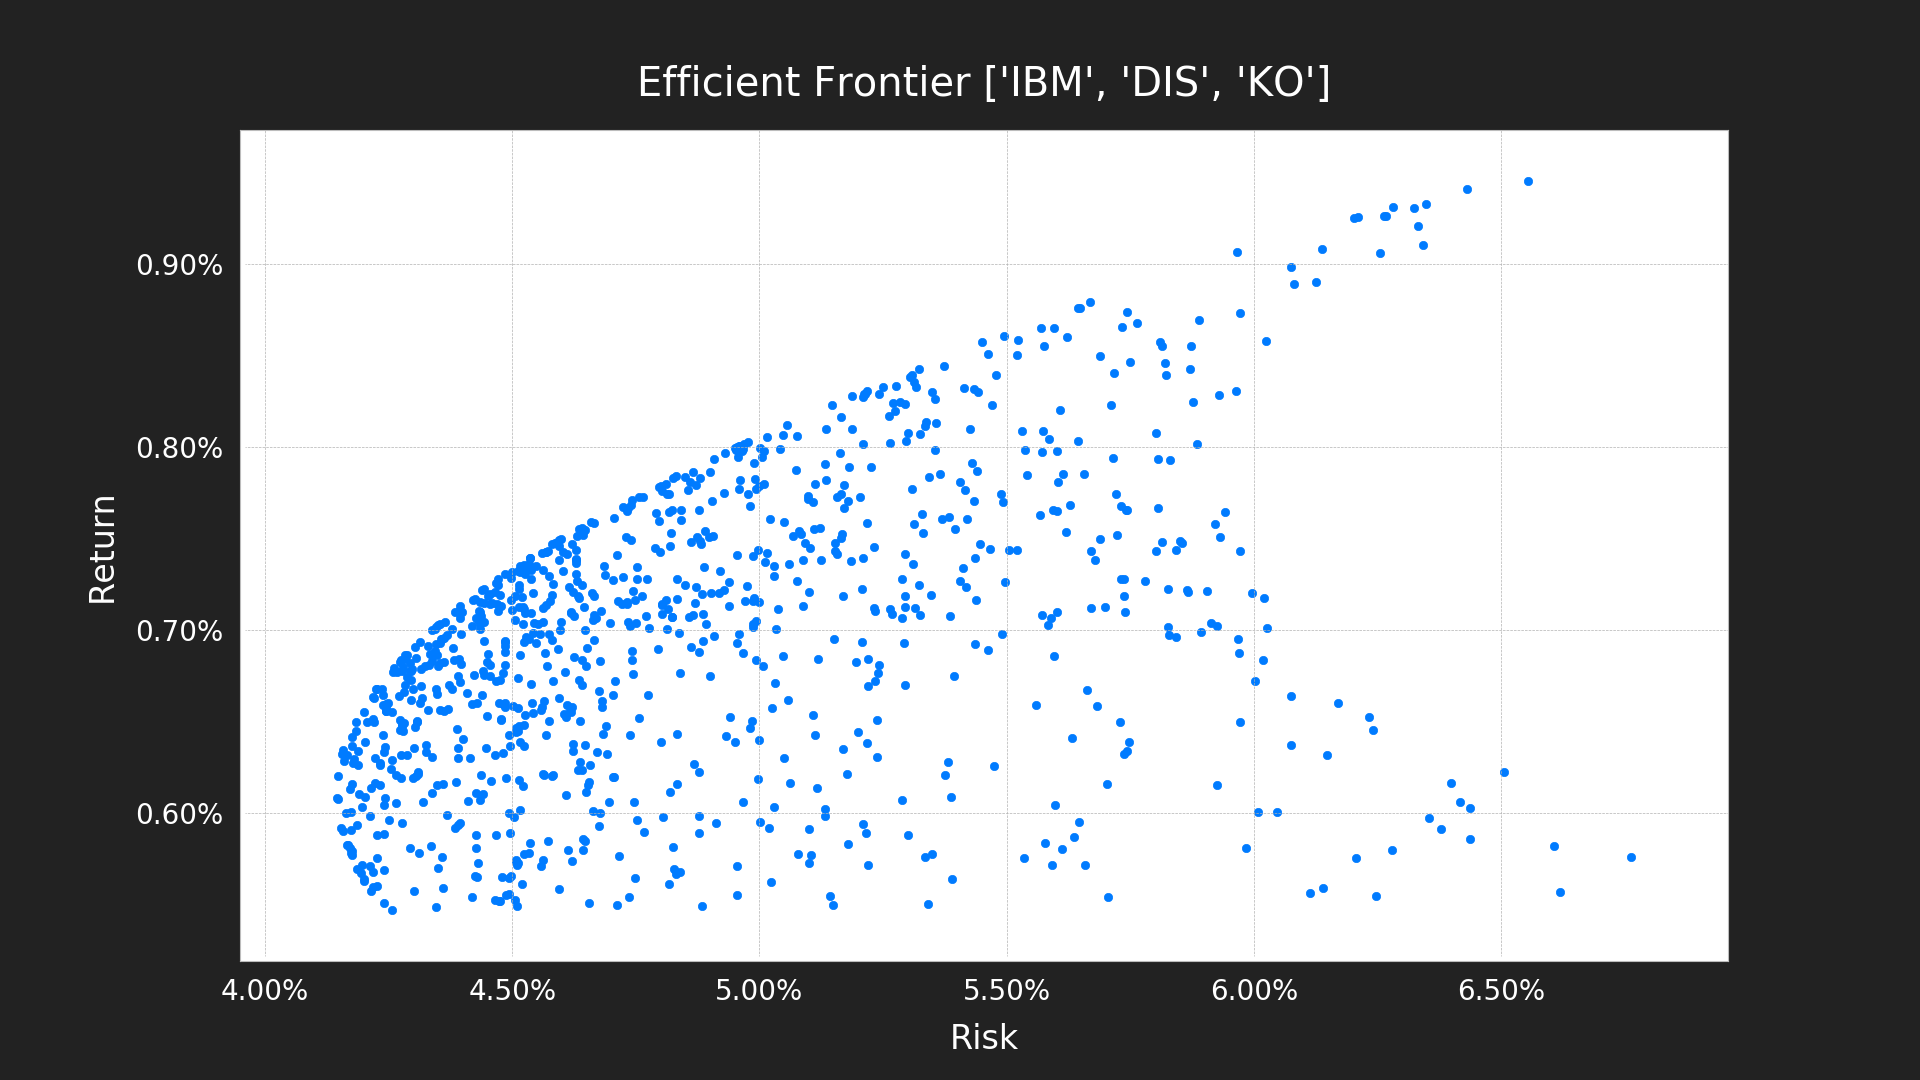
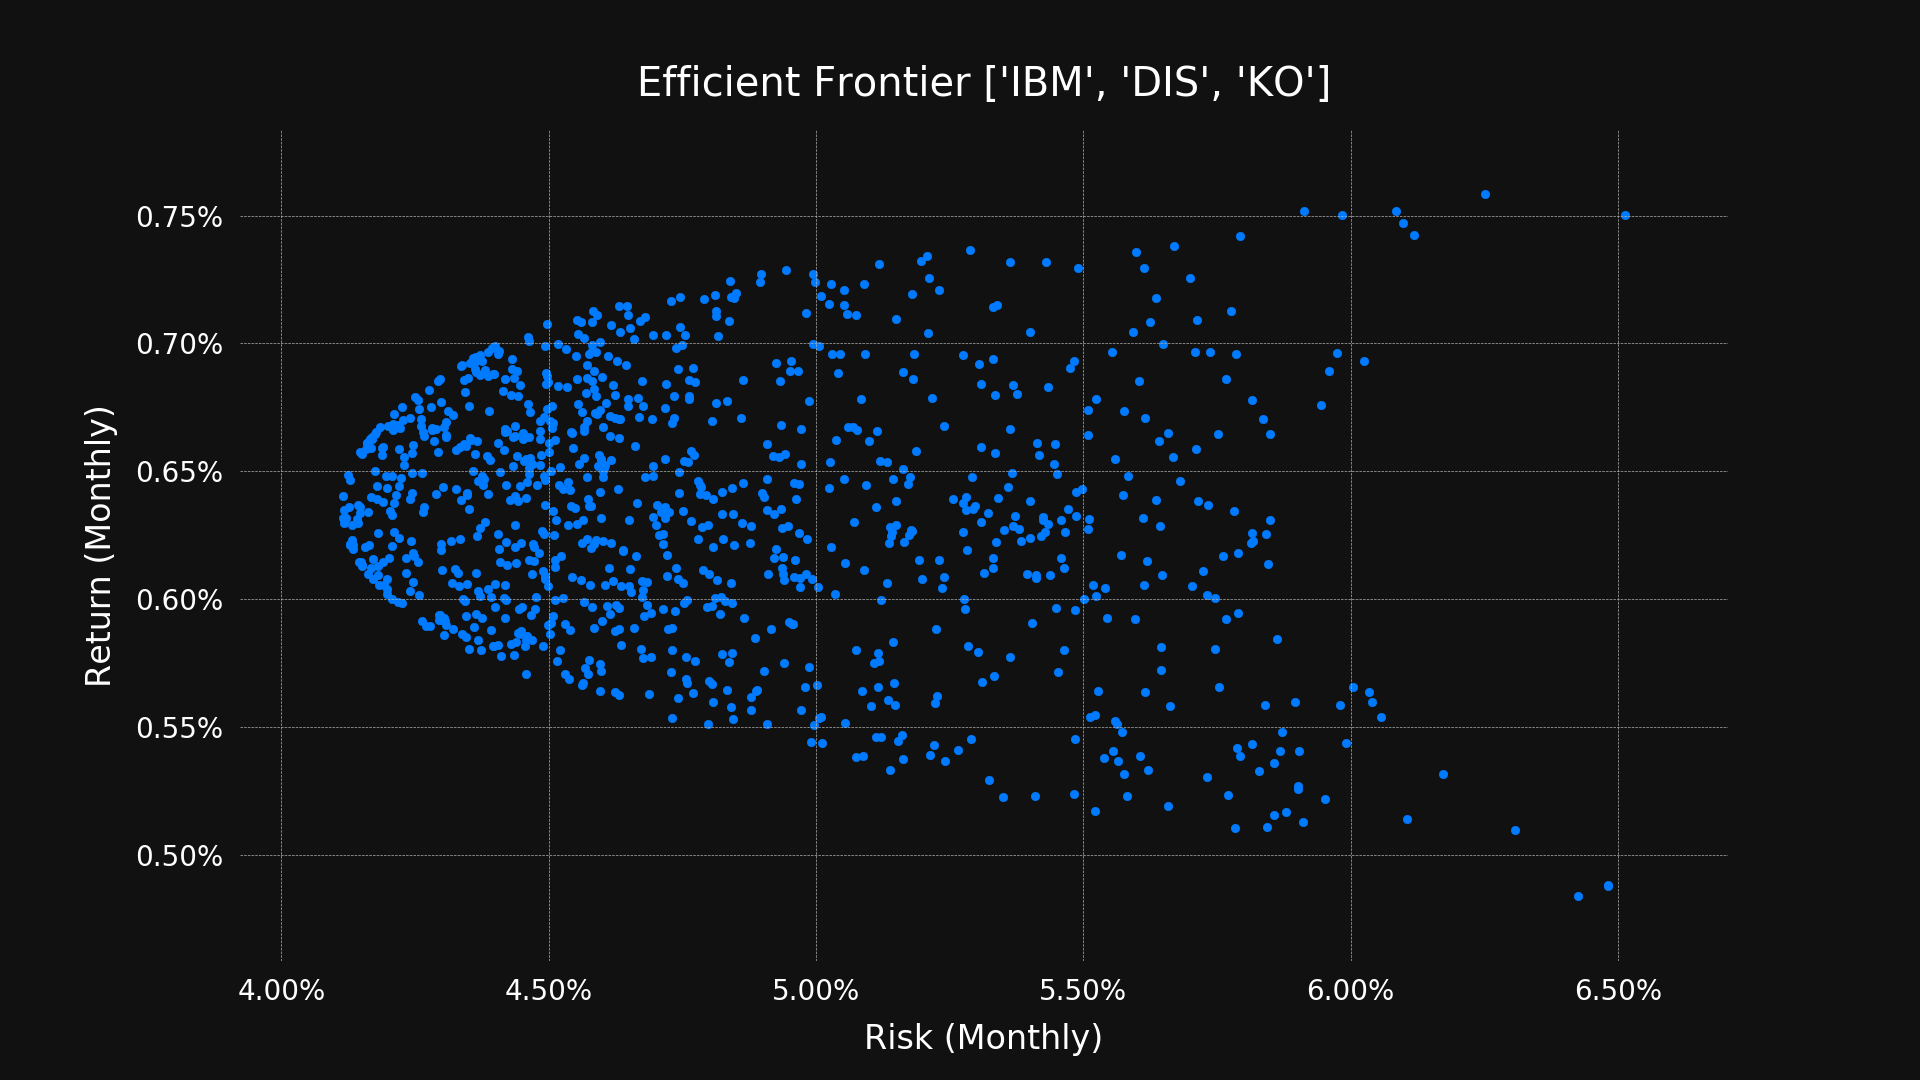
Refactor efficient frontier scripts

diff --git a/frontier.py b/frontier.py
@@ -4,10 +4,11 @@ import pathlib
 import numpy as np
 
 import alpha_vantage
+from alpha_vantage import Interval
 import plot_style
 
 
-def show_frontier(symbols, interval='MONTHLY'):
+def show_frontier(symbols, interval=Interval.MONTHLY):
     #print(f'Symbols: {symbols}')
 
     returns_history = dict()
@@ -31,7 +32,7 @@ def show_frontier(symbols, interval='MONTHLY'):
     for symbol in symbols:
         returns_history[symbol] = returns_history[symbol][-min_length:]
 
-    #for symbol in symbols:
+    # for symbol in symbols:
     #    print(
     #       f'History for symbol {symbol} has {len(returns_history[symbol])} records')
 
@@ -60,7 +61,7 @@ def show_frontier(symbols, interval='MONTHLY'):
                                for i, symbol in enumerate(symbols)])
 
         weights_times_deviations = [
-            weights[i]**2 * standard_deviations[symbol]**2 for i, symbol in enumerate(symbols)]
+            weights[i]**2 * standard_deviations[s]**2 for i, s in enumerate(symbols)]
         variance = sum(weights_times_deviations)
 
         for i in range(0, len(symbols)):
@@ -82,7 +83,9 @@ def show_frontier(symbols, interval='MONTHLY'):
                         returns_history[symbol1], returns_history[symbol2])[0][1]
                     #print('Correlation = %f' % correlation)
 
-                    additional_variance = weight1 * weight2 * deviation1 * deviation2 * correlation
+                    additional_variance = weight1 * weight2  \
+                        * deviation1 * deviation2 \
+                        * correlation
                     #print('Additional variance = %f' % additional_variance)
 
                     variance += additional_variance
@@ -109,10 +112,10 @@ def show_frontier(symbols, interval='MONTHLY'):
     plt.gca().set_yticklabels(['{:.2f}%'.format(y*100)
                                for y in plt.gca().get_yticks()])
 
-    plt.title(f'Efficient Frontier {symbols}')
+    plt.title(f'Efficient Frontier {list(s.upper() for s in symbols)}')
 
-    plt.xlabel('Risk')
-    plt.ylabel('Return')
+    plt.xlabel(f'Risk ({interval.value.lower().capitalize()})')
+    plt.ylabel(f'Return ({interval.value.lower().capitalize()})')
 
     pathlib.Path('img/frontier').mkdir(parents=True, exist_ok=True)
     plt.savefig(f'img/frontier/frontier.png')

diff --git a/frontier2.py b/frontier2.py
@@ -5,10 +5,13 @@ import matplotlib
 import matplotlib.pyplot as plt
 
 import alpha_vantage
+from alpha_vantage import Interval
 import plot_style
 
 
-def show_frontier(symbol1, symbol2, interval='MONTHLY'):
+def show_frontier(symbol1: str,
+                  symbol2: str,
+                  interval=Interval.MONTHLY):
     returns1 = alpha_vantage.get_stock_returns_history(symbol1, interval)
     returns2 = alpha_vantage.get_stock_returns_history(symbol2, interval)
 
@@ -82,13 +85,13 @@ def show_frontier(symbol1, symbol2, interval='MONTHLY'):
     plt.gca().set_yticklabels(['{:.2f}%'.format(y*100)
                                for y in plt.gca().get_yticks()])
 
-    plt.title(f'Efficient Frontier ({symbol1} and {symbol2})')
+    plt.title(f'Efficient Frontier ({symbol1.upper()} and {symbol2.upper()})')
 
-    plt.xlabel('Risk')
-    plt.ylabel('Return')
+    plt.xlabel(f'Risk ({interval.value.lower().capitalize()})')
+    plt.ylabel(f'Return ({interval.value.lower().capitalize()})')
 
     pathlib.Path('img/frontier2').mkdir(parents=True, exist_ok=True)
-    plt.savefig(f'img/frontier2/{symbol1}-{symbol2}.png')
+    plt.savefig(f'img/frontier2/{symbol1.lower()}-{symbol2.lower()}.png')
     plt.close()
 
 
